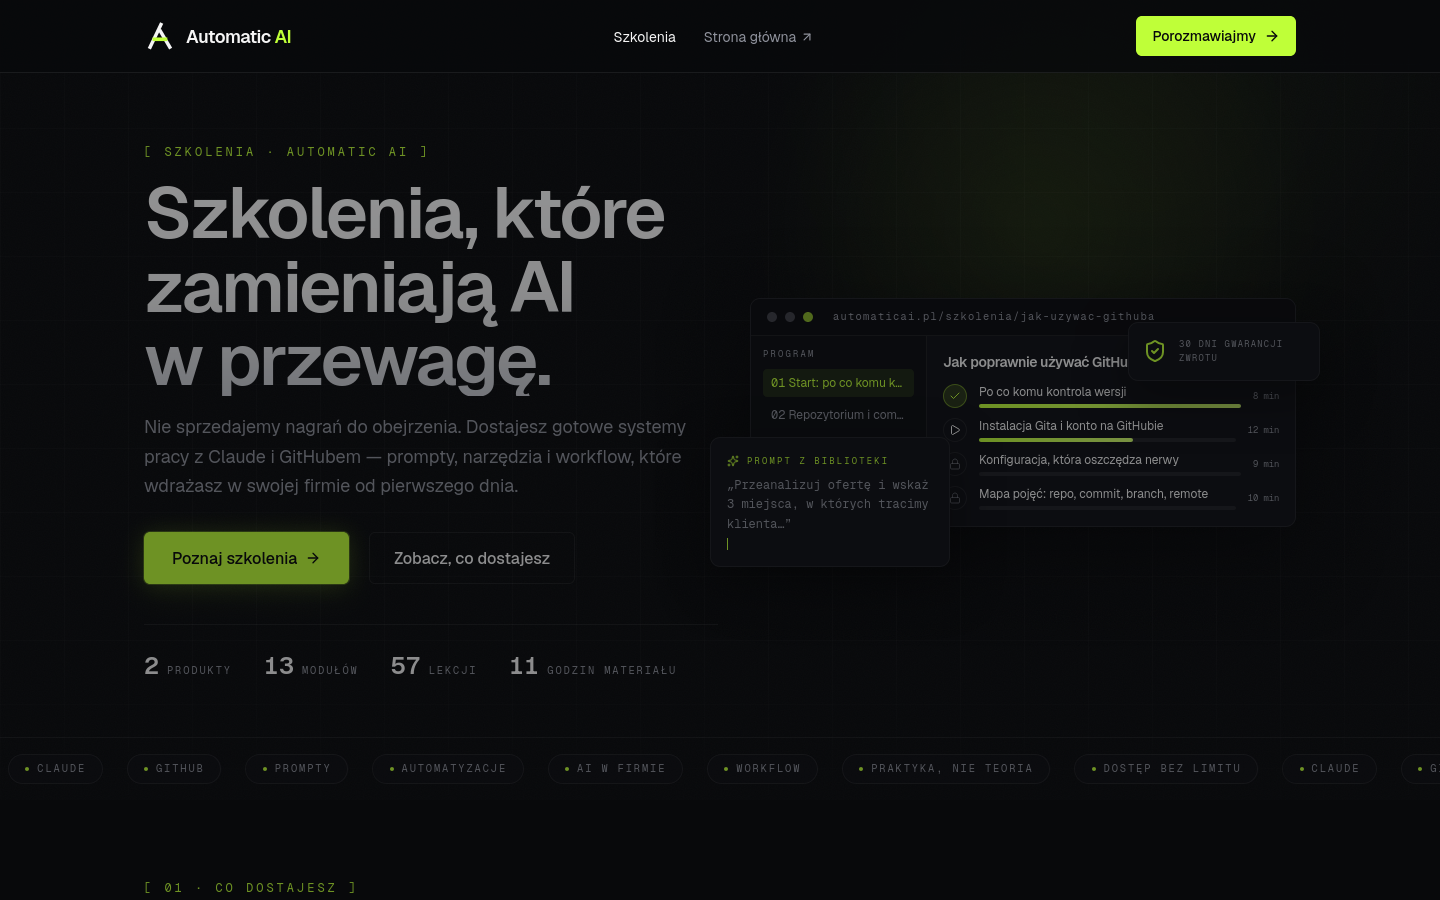
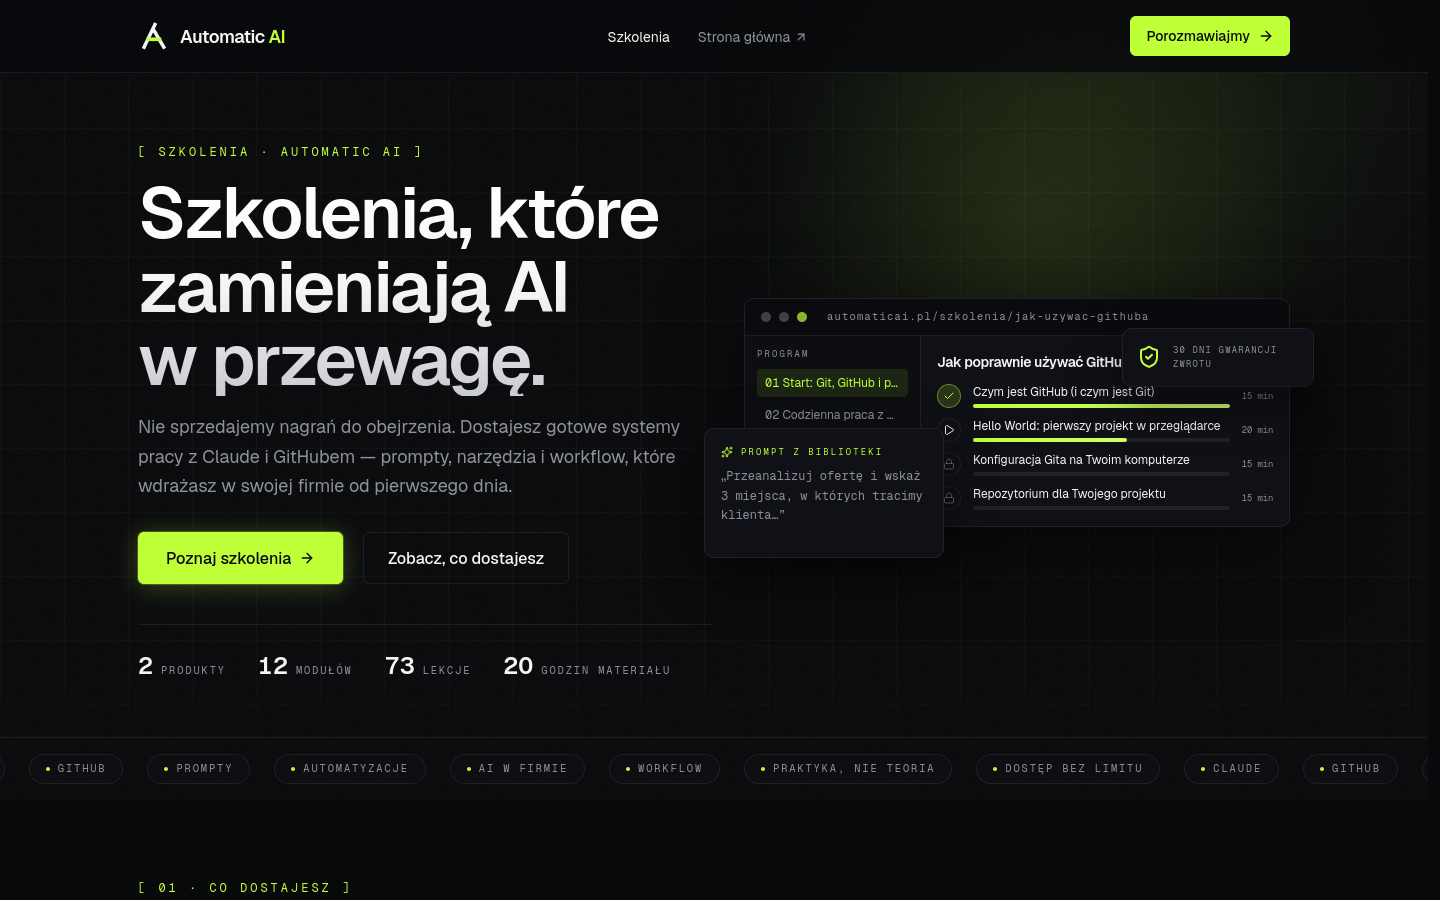
Podgląd w README prowadzi do podglądu, a nie do cudzego localhosta
Zrzut katalogu w nagłówku README linkował do `http://localhost:3001/szkolenia`
— czyli każdy, kto kliknął go na GitHubie, trafiał we własny, nieuruchomiony
serwer. Publiczny adres podglądu istniał w repo od 0.23.0, tyle że w tabeli
stanu niżej. Link poprawiony; osobna linijka „Podgląd lokalny" zostaje, bo
tam localhost jest na miejscu.

Przy okazji sprawdziłem całą tę klasę i znalazłem cztery dalsze miejsca,
w których README opowiadał nieaktualny stan:

- sam ZRZUT był z 18 sierpnia i reklamował „13 MODUŁÓW · 57 LEKCJI ·
  11 GODZIN", podczas gdy sklep ma 12 modułów, 73 lekcje i 20 godzin.
  Odtworzony z produkcyjnego `next start`, z asercją na liczby przed
  zapisem pliku — zrzut nie powstaje, jeśli nie ma na nim 73, 12 i 20;
- „treść kursów jest jeszcze ROBOCZA" przy podglądzie na żywo — nie jest
  od 0.32.0; robocze zostały wyłącznie opinie i to jest tam napisane;
- uzasadnienie `noindex` opierało się na roboczej treści sprzedażowej;
  prawdziwy powód to brak płatności i domeny docelowej;
- „62 testy" w szybkim starcie przy 75 realnych;
- opis `npm run db1:seed` mówił „przykładowe kursy", nie ostrzegając, że
  komenda NAJPIERW KASUJE kursy o tych slugach — czyli razem z prozą
  73 lekcji. Teraz ostrzega i odsyła do `db1:tresc`.

diff --git a/README.md b/README.md
@@ -15,7 +15,7 @@ trzy osobne bazy danych.
 
 <br>
 
-[![Podgląd katalogu /szkolenia](docs/zrzuty/podglad-szkolenia.png)](http://localhost:3001/szkolenia)
+[![Podgląd katalogu /szkolenia](docs/zrzuty/podglad-szkolenia.png)](https://matthewplugins.github.io/szkolenia-podglad/szkolenia)
 
 *Podgląd lokalny: [`http://localhost:3001/szkolenia`](http://localhost:3001/szkolenia)
 — `npm run db1:up && npm run db1:migruj && npm run dev`
@@ -51,7 +51,7 @@ trzy osobne bazy danych.
 | **Aktywny moduł** | 1 — Sklep z kursami ([diagram działów i bramek](docs/plugin-1/DIAGRAM.md)) |
 | **Gałąź domyślna** | `plugin-1-sklep-kursow` — tu żyje aktualny stan projektu. `main` jest **celowo nieaktualny** (wersja 0.3.4): moduł wchodzi na niego dopiero po ukończeniu i akceptacji całości ([PLAN.md §5](docs/PLAN.md)) |
 | **Localhost** | strona główna: `:3000` (klon, tylko podgląd) · Plugin 1: `:3001` (`npm run dev`) |
-| **Podgląd na żywo** | [matthewplugins.github.io/szkolenia-podglad/szkolenia](https://matthewplugins.github.io/szkolenia-podglad/szkolenia) — statyczny eksport katalogu i stron kursów (`npm run deploy:podglad`), **bez kreatora i AJAX-a**, z `noindex` na czas prac. Służy do pomiarów SEO i wydajności narzędziami Google; treść kursów jest jeszcze ROBOCZA |
+| **Podgląd na żywo** | [matthewplugins.github.io/szkolenia-podglad/szkolenia](https://matthewplugins.github.io/szkolenia-podglad/szkolenia) — statyczny eksport katalogu i stron kursów (`npm run deploy:podglad`), **bez kreatora i AJAX-a**, z `noindex` na czas prac. Służy do pomiarów SEO i wydajności narzędziami Google; **oba kursy są kompletne** (73 lekcje), a teksty sprzedażowe zgodne z produktem (0.33.0) — placeholderami zostają wyłącznie opinie, do pierwszych sprzedaży |
 | **Licencja** | MIT ([LICENSE](LICENSE)) — jak repo strony głównej; fonty Geist osobno na SIL OFL 1.1 ([public/fonts/LICENSE-Geist-OFL.txt](public/fonts/LICENSE-Geist-OFL.txt)) |
 | **Produkcja** | brak — **docelowo WordPress na wykupionym hostingu i domenie** (decyzja zespołu 2026-08-18): sklep zostanie przepisany na wtyczkę WP (PHP + MySQL), a obecny kod Next.js jest prototypem-specyfikacją ([szczegóły](docs/PLAN.md#decyzja-zespołu-2026-08-18--produkcja-na-wordpressie-zastępuje-plan-hosting-nodejs--vps)) |
 
@@ -134,7 +134,7 @@ Codzienne — opisane pytaniem, na które odpowiadają:
 | `npm run lint` | ESLint |
 | `npm run db1:up` | postaw kontener bazy (podman compose) |
 | `npm run db1:migruj` | doprowadź schemat bazy do aktualnego stanu (sha256 w `_migracje`) |
-| `npm run db1:seed` | wgraj przykładowe kursy (treść ROBOCZA — do oceny wyglądu) |
+| `npm run db1:seed` | odtwórz oba kursy od zera: program (lustro bazy) + sekcje sprzedażowe. **UWAGA: najpierw KASUJE kursy o tych slugach**, czyli razem z prozą 73 lekcji — po nim trzeba wgrać treść `npm run db1:tresc` |
 | `npm run db1:tresc` | wgraj prozę lekcji z `tresc-kursow/**/proza-*.md` do bazy — drogą kreatora (jedyny AJAX); `-- --sprawdz` sam sprawdza, nic nie wysyła |
 
 Narzędzia uruchamiane ręcznie:
@@ -267,8 +267,8 @@ pętli przy optymalizacji; przed jego użyciem sprawdzić
 `ps -eo pcpu,comm --sort=-pcpu`, czy maszyna jest spokojna.
 
 **Pomiar rozchodzi się na dwa buildy i trzeba wiedzieć dlaczego.** Podgląd
-chodzi z `noindex` (decyzja właściciela — treść stron sprzedażowych jest
-jeszcze robocza, a opinie to jawne placeholdery). Lighthouse **punktuje**
+chodzi z `noindex` (decyzja właściciela — sklep nie ma jeszcze płatności
+ani domeny docelowej, a opinie to jawne placeholdery). Lighthouse **punktuje**
 audyt „Page is blocked from indexing", więc na żywym adresie kolumna SEO
 nigdy nie pokaże 100, choćby wszystko inne było bez zarzutu. Mierzymy więc:
 
@@ -329,8 +329,8 @@ git config core.hooksPath .githooks   # włącza haki — raz, obowiązkowo
 npm ci                                # zależności (Node 24+)
 cp .env.example .env                  # lokalna konfiguracja (baza, KREATOR_TOKEN)
 npm run db1:migruj                    # migracje + triggery (bazę podniesie pretest)
-npm test                              # 62 testy; sam podnosi kontener bazy
-npm run db1:seed                      # 2 przykładowe kursy (treść ROBOCZA)
+npm test                              # 75 testów; sam podnosi kontener bazy
+npm run db1:seed                      # program + sekcje sprzedażowe (UWAGA: kasuje kursy)
 npm run dev                           # → http://localhost:3001/szkolenia
 ```
 
